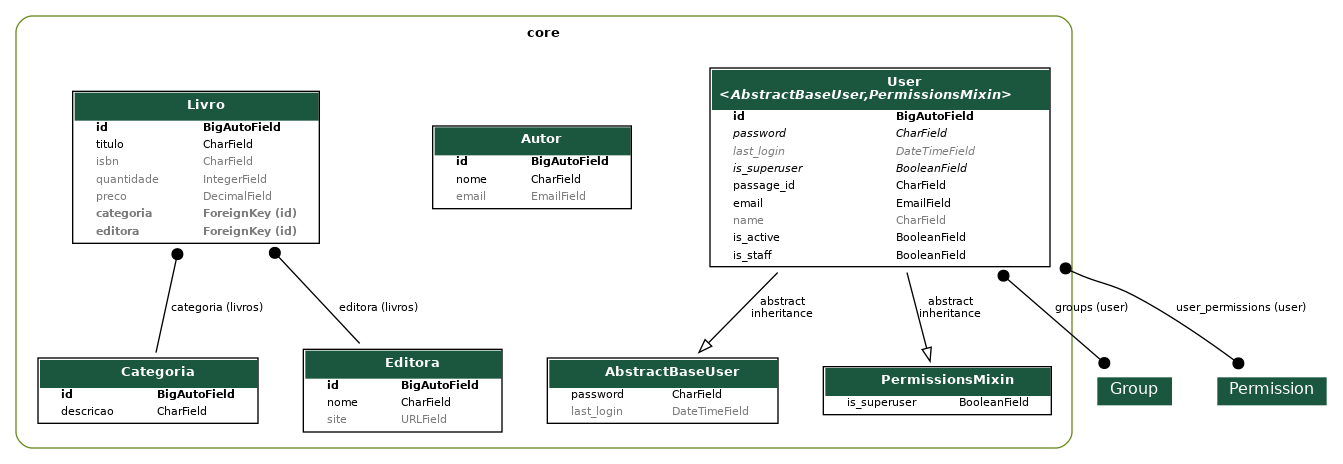
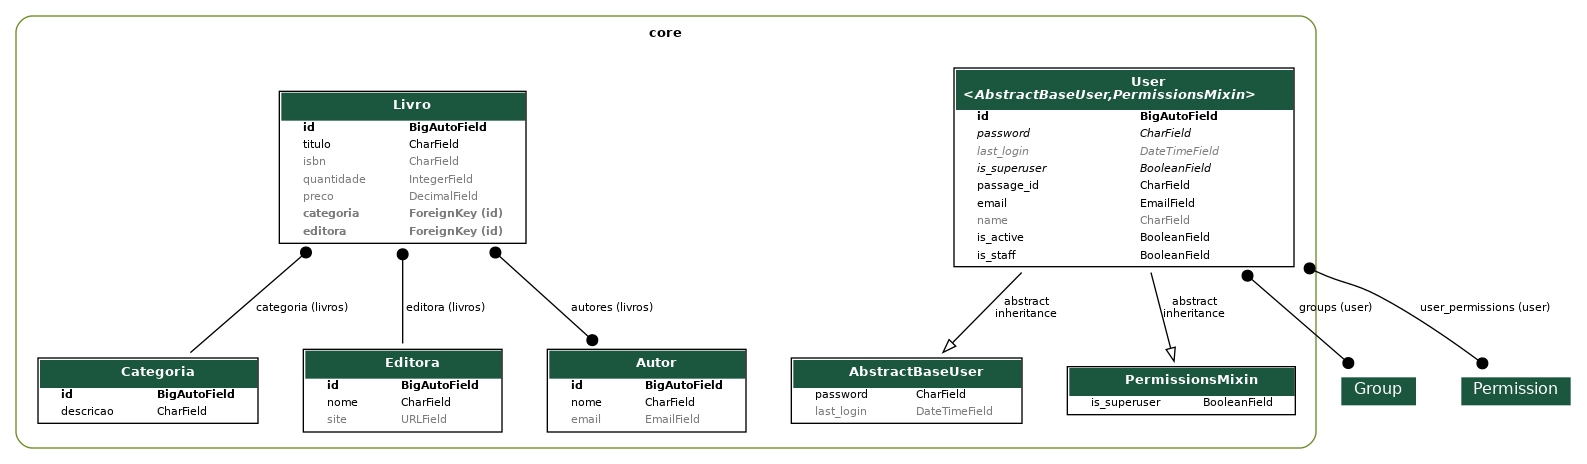
Dois serializadores para Livro

diff --git a/core/views/livro.py b/core/views/livro.py
@@ -1,9 +1,14 @@
 from rest_framework.viewsets import ModelViewSet
 
 from core.models import Categoria, Livro
-from core.serializers import CategoriaSerializer, LivroSerializer
+from core.serializers import CategoriaSerializer
+from core.serializers import LivroDetailSerializer, LivroSerializer
 
-...
 class LivroViewSet(ModelViewSet):
     queryset = Livro.objects.all()
     serializer_class = LivroSerializer
+
+    def get_serializer_class(self):
+        if self.action in ["list", "retrieve"]:
+            return LivroDetailSerializer
+        return LivroSerializer

diff --git a/core/models/livro.py b/core/models/livro.py
@@ -1,6 +1,7 @@
 from django.db import models
 from .categoria import Categoria
 from .editora import Editora
+from .autor import Autor
 
 class Livro(models.Model):
     titulo = models.CharField(max_length=255)
@@ -12,6 +13,7 @@ class Livro(models.Model):
     )
     editora = models.ForeignKey(Editora, on_delete=models.PROTECT, related_name="livros", null=True, blank=True
     )
+    autores = models.ManyToManyField(Autor, related_name="livros", blank=True)
 
     def __str__(self):
         return f"({self.id}) {self.titulo} ({self.quantidade})"

diff --git a/core/migrations/0010_livro_autores.py b/core/migrations/0010_livro_autores.py
@@ -1,0 +1,18 @@
+# Generated by Django 5.1.1 on 2024-10-21 11:45
+
+from django.db import migrations, models
+
+
+class Migration(migrations.Migration):
+
+    dependencies = [
+        ('core', '0009_livro_categoria_livro_editora'),
+    ]
+
+    operations = [
+        migrations.AddField(
+            model_name='livro',
+            name='autores',
+            field=models.ManyToManyField(blank=True, related_name='livros', to='core.autor'),
+        ),
+    ]

diff --git a/core/serializers/__init__.py b/core/serializers/__init__.py
@@ -2,4 +2,4 @@ from .user import UserSerializer
 from .categoria import CategoriaSerializer
 from .editora import EditoraSerializer
 from .autor import AutorSerializer
-from .livro import LivroSerializer
+from .livro import LivroDetailSerializer, LivroSerializer

diff --git a/core/serializers/livro.py b/core/serializers/livro.py
@@ -6,3 +6,9 @@ class LivroSerializer(ModelSerializer):
     class Meta:
         model = Livro
         fields = "__all__"
+
+class LivroDetailSerializer(ModelSerializer):
+    class Meta:
+        model = Livro
+        fields = "__all__"
+        depth = 1
